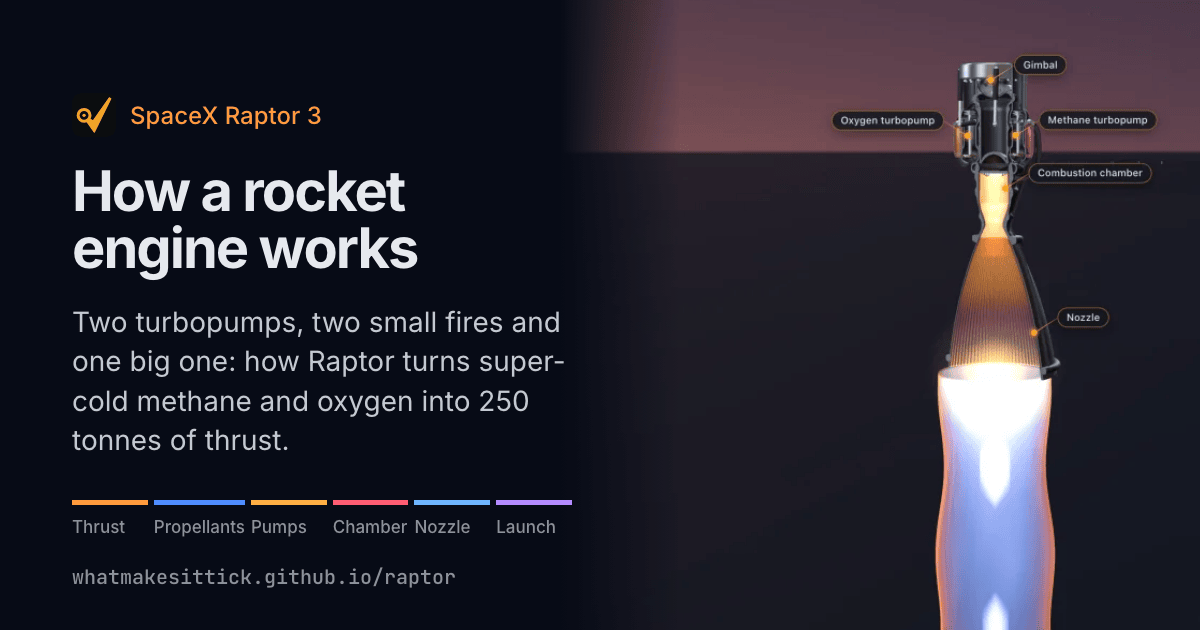
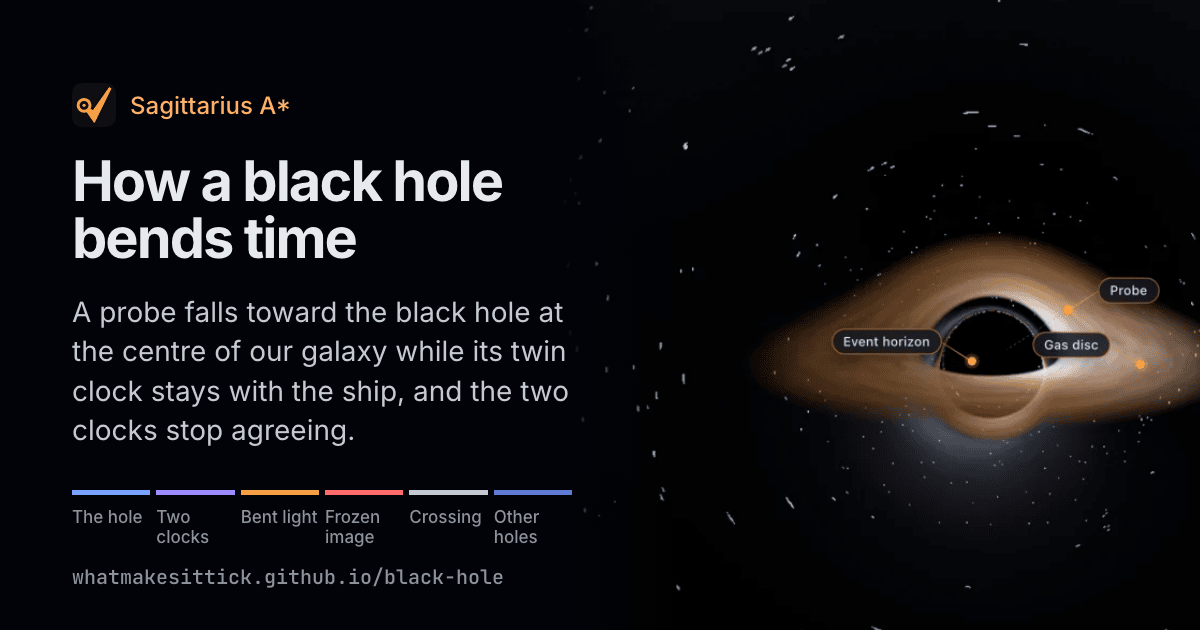
feat(black-hole): frame the hero view tighter and add the cover and social card

diff --git a/explainers/black-hole/src/scene/layout.ts b/explainers/black-hole/src/scene/layout.ts
@@ -43,6 +43,7 @@ export function sheetDepth(radius: number): number {
 
 const SCENE_EXTENT = 22;
 const HOLE_EXTENT = 13;
+const SYSTEM_EXTENT = 17;
 const SHEET_EXTENT = SHEET.rim;
 
 export const REGIONS: Readonly<Record<Exclude<RegionId, 'probeClose'>, RegionSpec>> = {
@@ -51,7 +52,7 @@ export const REGIONS: Readonly<Record<Exclude<RegionId, 'probeClose'>, RegionSpe
     y: [-SCENE_EXTENT, SCENE_EXTENT],
     z: [-SCENE_EXTENT, SCENE_EXTENT],
   },
-  system: { x: [-SCENE_EXTENT, SCENE_EXTENT], y: [-4, 14], z: [-14, 14] },
+  system: { x: [-SYSTEM_EXTENT, SYSTEM_EXTENT], y: [-4, 13], z: [-10, 10] },
   hole: { x: [-HOLE_EXTENT, HOLE_EXTENT], y: [-3, 3], z: [-HOLE_EXTENT, HOLE_EXTENT] },
   sheet: { x: [-SHEET_EXTENT, SHEET_EXTENT], y: [-9, 1], z: [-SHEET_EXTENT, SHEET_EXTENT] },
 };
